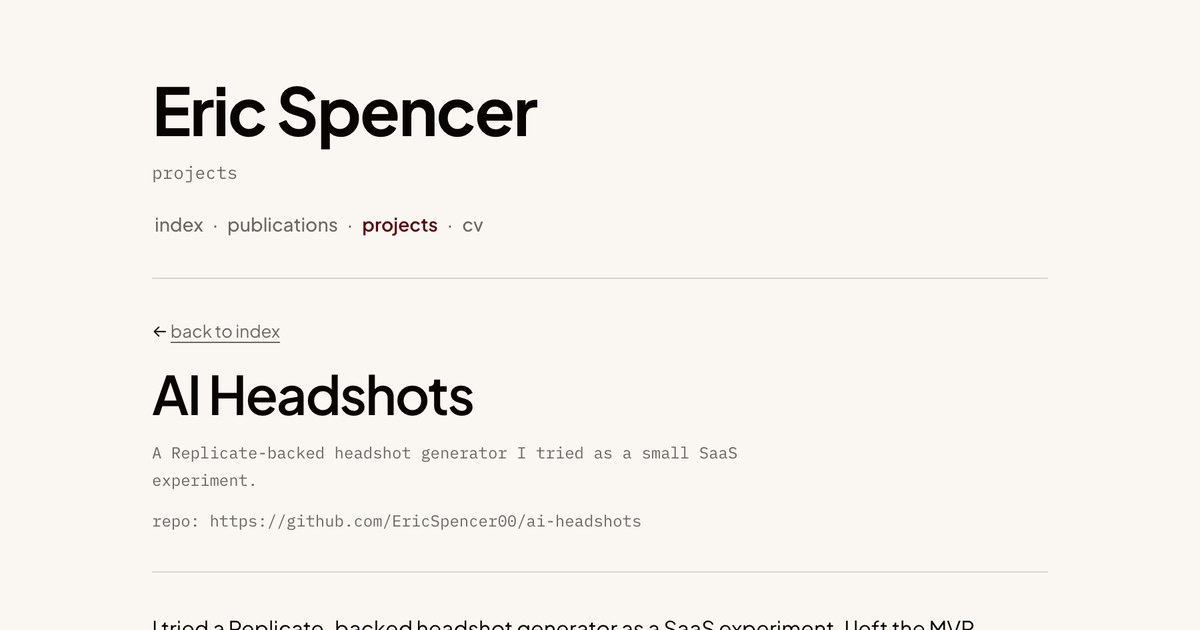
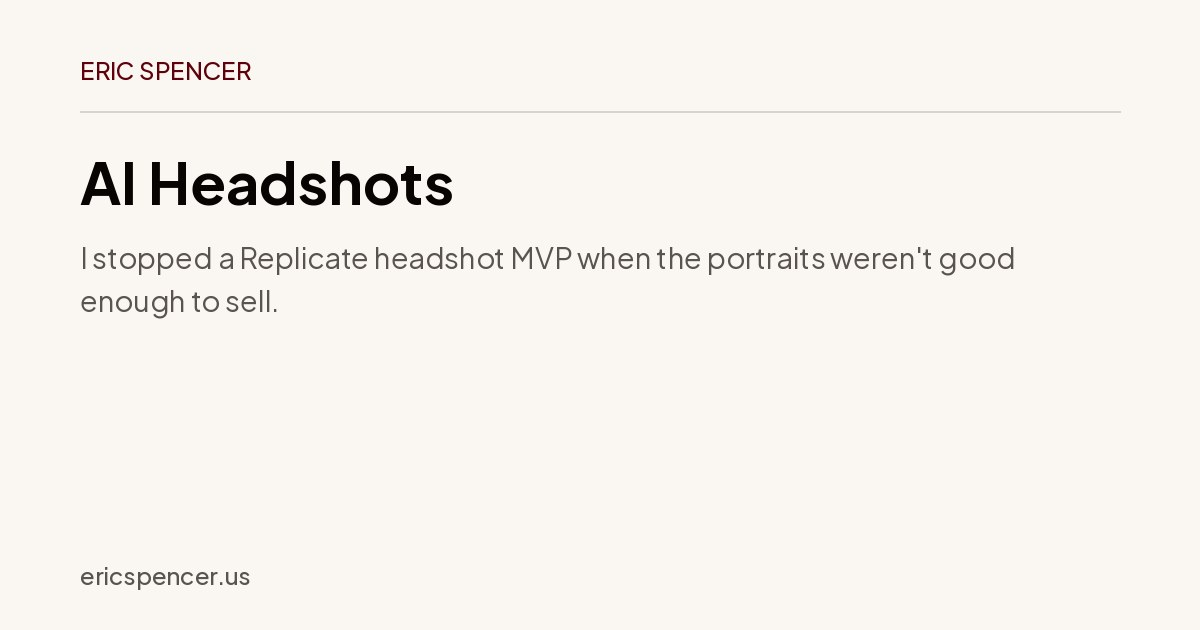
Refresh edited project share previews

diff --git a/projects/ai-music-playground/index.html b/projects/ai-music-playground/index.html
@@ -3,11 +3,11 @@
 <head>
 <meta charset="utf-8"><meta name="viewport" content="width=device-width,initial-scale=1">
 <title>AI Music Playground | Eric Spencer</title>
-<meta name="description" content="A private workspace for trying music-generation tools and comparing their outputs.">
+<meta name="description" content="A private workspace for comparing music-generation tools.">
 <meta name="robots" content="noindex, follow">
 <link rel="canonical" href="https://ericspencer.us/projects/ai-music-playground/">
 <meta property="og:title" content="AI Music Playground | Eric Spencer">
-<meta property="og:description" content="A private workspace for trying music-generation tools and comparing their outputs.">
+<meta property="og:description" content="A private workspace for comparing music-generation tools.">
 <meta property="og:url" content="https://ericspencer.us/projects/ai-music-playground/">
 <meta property="og:image" content="https://ericspencer.us/assets/og/projects-ai-music-playground.jpg">
 <meta property="og:image:type" content="image/jpeg">
@@ -19,10 +19,10 @@
 <meta name="twitter:image:alt" content="AI Music Playground | Eric Spencer — ericspencer.us">
 <meta property="linkedin:image" content="https://ericspencer.us/assets/og/projects-ai-music-playground.jpg">
 <script type="application/ld+json">
-{"@context":"https://schema.org","@type":"WebPage","name":"AI Music Playground | Eric Spencer","url":"https://ericspencer.us/projects/ai-music-playground/","isPartOf":{"@type":"WebSite","name":"Eric Spencer","url":"https://ericspencer.us/"},"inLanguage":"en-US","description":"A private workspace for trying music-generation tools and comparing their outputs."}
+{"@context":"https://schema.org","@type":"WebPage","name":"AI Music Playground | Eric Spencer","url":"https://ericspencer.us/projects/ai-music-playground/","isPartOf":{"@type":"WebSite","name":"Eric Spencer","url":"https://ericspencer.us/"},"inLanguage":"en-US","description":"A private workspace for comparing music-generation tools."}
 </script>
 <meta name="twitter:title" content="AI Music Playground | Eric Spencer">
-<meta name="twitter:description" content="A private workspace for trying music-generation tools and comparing their outputs.">
+<meta name="twitter:description" content="A private workspace for comparing music-generation tools.">
 <link rel="icon" href="/favicon.svg" type="image/svg+xml"><link rel="stylesheet" href="/assets/css/project-article.css">
 <link rel="stylesheet" href="/assets/css/portfolio.css?v=20260922">
 <meta name="referrer" content="strict-origin-when-cross-origin">
@@ -41,7 +41,7 @@ gtag('config', 'G-30FQRTZWJ8');
 <p class="name">Eric Spencer</p><p class="sub">projects</p>
 <nav class="top"><a href="/">index</a> &nbsp;&middot;&nbsp; <a href="/research/">publications</a> &nbsp;&middot;&nbsp; <a href="/projects/" class="active">projects</a> &nbsp;&middot;&nbsp; <a href="/cv/">cv</a></nav><hr>
 <p class="back">← <a href="/projects/">back to projects</a></p>
-<main><h1>AI Music Playground</h1><p class="meta">A private workspace for trying music-generation tools and comparing their outputs.</p>
+<main><h1>AI Music Playground</h1><p class="meta">A private workspace for comparing music-generation tools.</p>
 <p>I use this workspace to compare music-generation tools and their output. It's private for now; there's no public app or download.</p>
 <p>The <a href="/projects/">project list</a> shows the tools and apps that are ready to try.</p>
 </main><footer><span>© 2026 Eric Spencer · Chicago, IL</span><span><a href="mailto:eric@ericspencer.us">eric@ericspencer.us</a></span></footer>

diff --git a/projects/i-paid-for-this-shirt/index.html b/projects/i-paid-for-this-shirt/index.html
@@ -3,11 +3,11 @@
 <head>
 <meta charset="utf-8"><meta name="viewport" content="width=device-width,initial-scale=1">
 <title>I Paid For This Shirt | Eric Spencer</title>
-<meta name="description" content="A storefront where the amount you pay is printed on the shirt.">
+<meta name="description" content="The price you choose is printed on the shirt.">
 <meta name="robots" content="index, follow, max-image-preview:large, max-snippet:-1">
 <link rel="canonical" href="https://ericspencer.us/projects/i-paid-for-this-shirt/">
 <meta property="og:title" content="I Paid For This Shirt | Eric Spencer">
-<meta property="og:description" content="A storefront where the amount you pay is printed on the shirt.">
+<meta property="og:description" content="The price you choose is printed on the shirt.">
 <meta property="og:url" content="https://ericspencer.us/projects/i-paid-for-this-shirt/">
 <meta property="og:image" content="https://ericspencer.us/assets/og/projects-i-paid-for-this-shirt.jpg">
 <meta property="og:image:type" content="image/jpeg">
@@ -19,10 +19,10 @@
 <meta name="twitter:image:alt" content="I Paid For This Shirt | Eric Spencer — ericspencer.us">
 <meta property="linkedin:image" content="https://ericspencer.us/assets/og/projects-i-paid-for-this-shirt.jpg">
 <script type="application/ld+json">
-{"@context":"https://schema.org","@type":"WebPage","name":"I Paid For This Shirt | Eric Spencer","url":"https://ericspencer.us/projects/i-paid-for-this-shirt/","isPartOf":{"@type":"WebSite","name":"Eric Spencer","url":"https://ericspencer.us/"},"inLanguage":"en-US","description":"A storefront where the amount you pay is printed on the shirt."}
+{"@context":"https://schema.org","@type":"WebPage","name":"I Paid For This Shirt | Eric Spencer","url":"https://ericspencer.us/projects/i-paid-for-this-shirt/","isPartOf":{"@type":"WebSite","name":"Eric Spencer","url":"https://ericspencer.us/"},"inLanguage":"en-US","description":"The price you choose is printed on the shirt."}
 </script>
 <meta name="twitter:title" content="I Paid For This Shirt | Eric Spencer">
-<meta name="twitter:description" content="A storefront where the amount you pay is printed on the shirt.">
+<meta name="twitter:description" content="The price you choose is printed on the shirt.">
 <link rel="icon" href="/favicon.svg" type="image/svg+xml"><link rel="stylesheet" href="/assets/css/project-article.css">
 <link rel="stylesheet" href="/assets/css/portfolio.css?v=20260922">
 <meta name="referrer" content="strict-origin-when-cross-origin">
@@ -41,7 +41,7 @@ gtag('config', 'G-30FQRTZWJ8');
 <p class="name">Eric Spencer</p><p class="sub">projects</p>
 <nav class="top"><a href="/">index</a> &nbsp;&middot;&nbsp; <a href="/research/">publications</a> &nbsp;&middot;&nbsp; <a href="/projects/" class="active">projects</a> &nbsp;&middot;&nbsp; <a href="/cv/">cv</a></nav><hr>
 <p class="back">← <a href="/projects/">back to projects</a></p>
-<main><h1>I Paid For This Shirt</h1><p class="meta">A storefront where the amount you pay is printed on the shirt.</p>
+<main><h1>I Paid For This Shirt</h1><p class="meta">The price you choose is printed on the shirt.</p>
 <p class="links"><a href="https://ipaidforthisshirt.com/" target="_blank" rel="noopener">open the site</a></p>
 <p>On this storefront, the price you choose is printed on the shirt. The source repo is private, but the live site is public.</p>
 </main><footer><span>© 2026 Eric Spencer · Chicago, IL</span><span><a href="mailto:eric@ericspencer.us">eric@ericspencer.us</a></span></footer>

diff --git a/projects/ai-headshots/index.html b/projects/ai-headshots/index.html
@@ -3,7 +3,7 @@
 <meta http-equiv="X-UA-Compatible" content="IE=edge">
 <meta name="viewport" content="width=device-width,initial-scale=1">
 <title>AI Headshots | Eric Spencer</title>
-<meta name="description" content="I left this Replicate-backed headshot MVP unfinished because the results weren't good enough to sell.">
+<meta name="description" content="I stopped a Replicate headshot MVP when the portraits weren't good enough to sell.">
 <meta name="author" content="Eric Spencer">
 <meta name="robots" content="index, follow, max-image-preview:large, max-snippet:-1">
 <link rel="canonical" href="https://ericspencer.us/projects/ai-headshots/">
@@ -13,7 +13,7 @@
 <meta name="theme-color" content="#faf7f2">
 <meta property="og:type" content="article">
 <meta property="og:title" content="AI Headshots | Eric Spencer">
-<meta property="og:description" content="I left this Replicate-backed headshot MVP unfinished because the results weren't good enough to sell.">
+<meta property="og:description" content="I stopped a Replicate headshot MVP when the portraits weren't good enough to sell.">
 <meta property="og:url" content="https://ericspencer.us/projects/ai-headshots/">
 <meta property="og:image" content="https://ericspencer.us/assets/og/projects-ai-headshots.jpg">
 <meta property="og:image:type" content="image/jpeg">
@@ -27,13 +27,13 @@
 <meta property="og:site_name" content="Eric Spencer">
 <meta property="og:locale" content="en_US">
 <meta name="twitter:title" content="AI Headshots | Eric Spencer">
-<meta name="twitter:description" content="I left this Replicate-backed headshot MVP unfinished because the results weren't good enough to sell.">
+<meta name="twitter:description" content="I stopped a Replicate headshot MVP when the portraits weren't good enough to sell.">
 <meta property="linkedin:title" content="AI Headshots | Eric Spencer">
-<meta property="linkedin:description" content="I left this Replicate-backed headshot MVP unfinished because the results weren't good enough to sell.">
+<meta property="linkedin:description" content="I stopped a Replicate headshot MVP when the portraits weren't good enough to sell.">
 <script type="application/ld+json">
 {"@context":"https://schema.org","@type":"Article",
 "headline":"AI Headshots",
-"description":"I left this Replicate-backed headshot MVP unfinished because the results weren't good enough to sell.",
+"description":"I stopped a Replicate headshot MVP when the portraits weren't good enough to sell.",
 "url":"https://ericspencer.us/projects/ai-headshots/",
 "image":"https://ericspencer.us/assets/og/projects-ai-headshots.jpg",
 "author":{"@type":"Person","name":"Eric Spencer","url":"https://ericspencer.us/"},

diff --git a/projects/2025/ai-headshots/index.html b/projects/2025/ai-headshots/index.html
@@ -14,8 +14,8 @@
 <meta name="twitter:image" content="https://ericspencer.us/assets/og/projects-ai-headshots.jpg">
 <meta name="twitter:image:alt" content="AI Headshots | Eric Spencer — ericspencer.us">
 <meta property="linkedin:image" content="https://ericspencer.us/assets/og/projects-ai-headshots.jpg">
-<meta property="og:description" content="I left this Replicate-backed headshot MVP unfinished because the results weren't good enough to sell.">
-<meta name="twitter:description" content="I left this Replicate-backed headshot MVP unfinished because the results weren't good enough to sell.">
+<meta property="og:description" content="I stopped a Replicate headshot MVP when the portraits weren't good enough to sell.">
+<meta name="twitter:description" content="I stopped a Replicate headshot MVP when the portraits weren't good enough to sell.">
 <script type="application/ld+json">
 {"@context":"https://schema.org","@type":"WebPage","name":"AI Headshots | Eric Spencer","url":"https://ericspencer.us/projects/ai-headshots/","isPartOf":{"@type":"WebSite","name":"Eric Spencer","url":"https://ericspencer.us/"},"inLanguage":"en-US","image":"https://ericspencer.us/assets/og/projects-ai-headshots.jpg"}
 </script>

diff --git a/projects/ai-headshots.html b/projects/ai-headshots.html
@@ -14,8 +14,8 @@
 <meta name="twitter:image" content="https://ericspencer.us/assets/og/projects-ai-headshots.jpg">
 <meta name="twitter:image:alt" content="AI Headshots | Eric Spencer — ericspencer.us">
 <meta property="linkedin:image" content="https://ericspencer.us/assets/og/projects-ai-headshots.jpg">
-<meta property="og:description" content="I left this Replicate-backed headshot MVP unfinished because the results weren't good enough to sell.">
-<meta name="twitter:description" content="I left this Replicate-backed headshot MVP unfinished because the results weren't good enough to sell.">
+<meta property="og:description" content="I stopped a Replicate headshot MVP when the portraits weren't good enough to sell.">
+<meta name="twitter:description" content="I stopped a Replicate headshot MVP when the portraits weren't good enough to sell.">
 <script type="application/ld+json">
 {"@context":"https://schema.org","@type":"WebPage","name":"AI Headshots | Eric Spencer","url":"https://ericspencer.us/projects/ai-headshots/","isPartOf":{"@type":"WebSite","name":"Eric Spencer","url":"https://ericspencer.us/"},"inLanguage":"en-US","image":"https://ericspencer.us/assets/og/projects-ai-headshots.jpg"}
 </script>

diff --git a/projects/i-paid-for-this-shirt.html b/projects/i-paid-for-this-shirt.html
@@ -14,8 +14,8 @@
 <meta name="twitter:image" content="https://ericspencer.us/assets/og/projects-i-paid-for-this-shirt.jpg">
 <meta name="twitter:image:alt" content="I Paid For This Shirt | Eric Spencer — ericspencer.us">
 <meta property="linkedin:image" content="https://ericspencer.us/assets/og/projects-i-paid-for-this-shirt.jpg">
-<meta property="og:description" content="A storefront where the amount you pay is printed on the shirt.">
-<meta name="twitter:description" content="A storefront where the amount you pay is printed on the shirt.">
+<meta property="og:description" content="The price you choose is printed on the shirt.">
+<meta name="twitter:description" content="The price you choose is printed on the shirt.">
 <script type="application/ld+json">
 {"@context":"https://schema.org","@type":"WebPage","name":"I Paid For This Shirt | Eric Spencer","url":"https://ericspencer.us/projects/i-paid-for-this-shirt/","isPartOf":{"@type":"WebSite","name":"Eric Spencer","url":"https://ericspencer.us/"},"inLanguage":"en-US"}
 </script>
